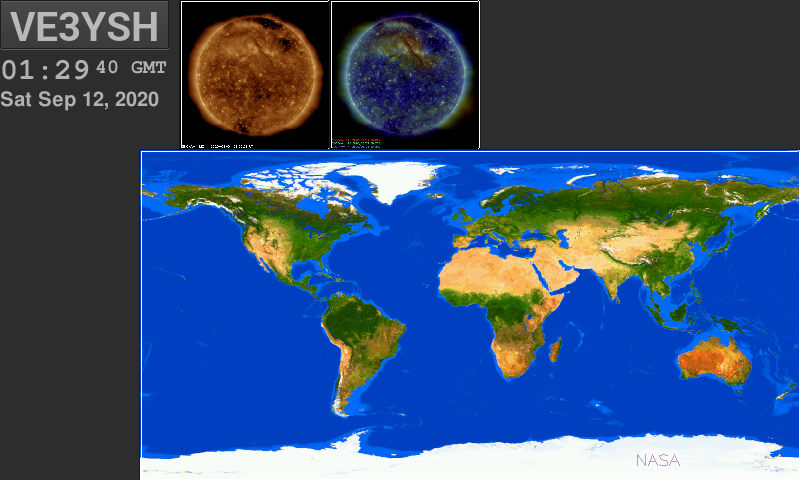
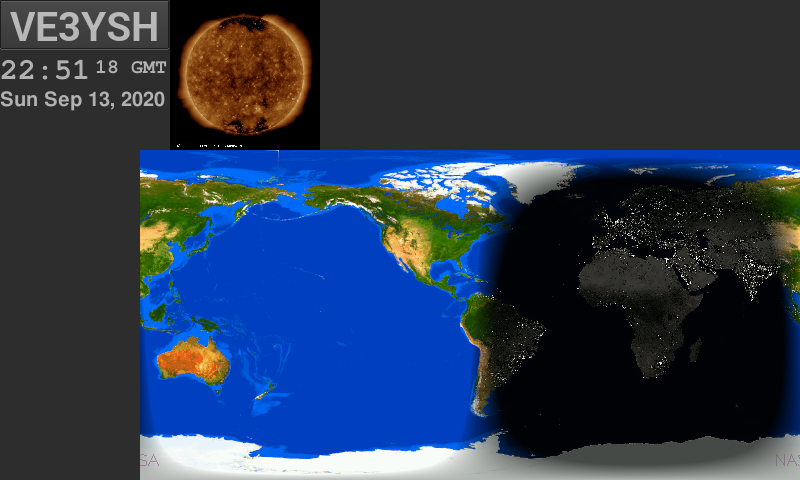
Implement small option for TimeBox.

diff --git a/sdlgui/timebox.cpp b/sdlgui/timebox.cpp
@@ -11,15 +11,22 @@
 
 static Uint32 TimeBoxCallbackStub(Uint32 interval, void *param);
 
-sdlgui::TimeBox::TimeBox(sdlgui::Widget *parent, bool localTime, const std::string &font, int fontSize)
+sdlgui::TimeBox::TimeBox(Widget *parent, bool small, bool localTime, const string &font, int fontSize)
         : Widget(parent),
           mTimer(*this, &TimeBox::timerCallback, 1000),
           mIsLocalTime(localTime),
+          mSmallBox(small),
           locale_time_put(use_facet<time_put<char>>(locale())) {
     if (fontSize < 0) {
-        mTimeBoxHoursMinFontSize = mTheme->mTimeBoxHoursMinFontSize;
-        mTimeBoxSecFontSize = mTheme->mTimeBoxSecFontSize;
-        mTimeBoxDateFontSize = mTheme->mTimeBoxDateFontSize;
+        if (mSmallBox) {
+            mTimeBoxHoursMinFontSize = mTheme->mTimeBoxSmallHoursMinFontSize;
+            mTimeBoxSecFontSize = mTheme->mTimeBoxSmallSecFontSize;
+            mTimeBoxDateFontSize = mTheme->mTimeBoxSmallDateFontSize;
+        } else {
+            mTimeBoxHoursMinFontSize = mTheme->mTimeBoxHoursMinFontSize;
+            mTimeBoxSecFontSize = mTheme->mTimeBoxSecFontSize;
+            mTimeBoxDateFontSize = mTheme->mTimeBoxDateFontSize;
+        }
     } else {
         mTimeBoxHoursMinFontSize = fontSize;
         mTimeBoxDateFontSize = fontSize;
@@ -27,8 +34,13 @@ sdlgui::TimeBox::TimeBox(sdlgui::Widget *parent, bool localTime, const std::stri
     }
 
     if (font.empty()) {
-        mTimeBoxDateFont = mTheme->mTimeBoxDateFont;
-        mTimeBoxTimeFont = mTheme->mTimeBoxTimeFont;
+        if (mSmallBox) {
+            mTimeBoxDateFont = mTheme->mTimeBoxSmallDateFont;
+            mTimeBoxTimeFont = mTheme->mTimeBoxSmallTimeFont;
+        } else {
+            mTimeBoxDateFont = mTheme->mTimeBoxDateFont;
+            mTimeBoxTimeFont = mTheme->mTimeBoxTimeFont;
+        }
     } else {
         mTimeBoxDateFont = font;
         mTimeBoxTimeFont = font;
@@ -66,15 +78,18 @@ void sdlgui::TimeBox::renderTime(const std::chrono::time_point<std::chrono::syst
     stringstream hm;
     hm.imbue(locale());
 
-    put_locale_time( hm, ' ', &tm, mTheme->mTimeBoxHoursMinFmt);
+    put_locale_time( hm, ' ', &tm,
+                     mSmallBox ? mTheme->mTimeBoxSmallHoursMinFmt : mTheme->mTimeBoxHoursMinFmt);
     mHoursMins->setCaption(hm.str());
 
     hm.str("");
-    put_locale_time( hm, ' ', &tm, mTheme->mTimeBoxSecFmt);
+    put_locale_time(hm, ' ', &tm,
+                    mSmallBox ? mTheme->mTimeBoxSmallSecFmt : mTheme->mTimeBoxSecFmt);
     mSeconds->setCaption(hm.str());
 
     hm.str("");
-    put_locale_time( hm, ' ', &tm, mTheme->mTimeBoxDateFmt);
+    put_locale_time( hm, ' ', &tm,
+                     mSmallBox ? mTheme->mTimeBoxSmallDateFmt : mTheme->mTimeBoxDateFmt);
     mDate->setCaption(hm.str());
 }
 

diff --git a/sdlgui/timebox.h b/sdlgui/timebox.h
@@ -83,6 +83,10 @@ namespace sdlgui {
         time_point <system_clock> mEpoch;
         duration<double> mElapsedSeconds{};
         bool mIsLocalTime{false};
+        bool mSmallBox{false};
+        bool mConfigured{false};
+        bool mFontSet{false};
+        bool mFontSizeSet{false};
         Widget *mTimeDisplay;
         Widget *mDateDisplay;
         Label *mHoursMins;
@@ -96,6 +100,8 @@ namespace sdlgui {
         std::string mTimeBoxTimeFont;
         std::string mTimeBoxDateFont;
 
+        void configure();
+
     public:
         /**
          * Constructor
@@ -103,8 +109,8 @@ namespace sdlgui {
          * @param font the font to use or an empty string for the default
          * @param fontSize the font size to use or -1 for the default
          */
-        explicit TimeBox(Widget *parent, bool localTime = false,
-                         const std::string &font = "", int fontSize = -1);
+        explicit TimeBox(Widget *parent, bool small = false, bool localTime = false, const string &font = "",
+                         int fontSize = -1);
 
         /**
          * Render time for a specific time.

diff --git a/sdlgui/theme.h b/sdlgui/theme.h
@@ -52,6 +52,9 @@ public:
     int mTimeBoxHoursMinFontSize;
     int mTimeBoxSecFontSize;
     int mTimeBoxDateFontSize;
+    int mTimeBoxSmallHoursMinFontSize;
+    int mTimeBoxSmallSecFontSize;
+    int mTimeBoxSmallDateFontSize;
     int mWindowCornerRadius;
     int mWindowHeaderHeight;
     int mWindowDropShadowSize;
@@ -108,10 +111,16 @@ public:
     std::string mFontPath;
     std::string mTimeBoxTimeFont;
     std::string mTimeBoxDateFont;
+    std::string mTimeBoxSmallTimeFont;
+    std::string mTimeBoxSmallDateFont;
 
     std::string mTimeBoxHoursMinFmt;
     std::string mTimeBoxSecFmt;
     std::string mTimeBoxDateFmt;
+
+    std::string mTimeBoxSmallHoursMinFmt;
+    std::string mTimeBoxSmallSecFmt;
+    std::string mTimeBoxSmallDateFmt;
 
     [[maybe_unused]] void getTexAndRect(SDL_Renderer *renderer, int x, int y, const char *text,
       const char* fontname, size_t ptsize, SDL_Texture **texture, SDL_Rect *rect, SDL_Color *textColor) const;

diff --git a/sdlgui/theme.cpp b/sdlgui/theme.cpp
@@ -34,6 +34,9 @@ NAMESPACE_BEGIN(sdlgui)
         mTimeBoxHoursMinFontSize = 30;
         mTimeBoxSecFontSize = 20;
         mTimeBoxDateFontSize = 20;
+        mTimeBoxSmallHoursMinFontSize = 30;
+        mTimeBoxSmallSecFontSize = 20;
+        mTimeBoxSmallDateFontSize = 20;
         mWindowCornerRadius = 2;
         mWindowHeaderHeight = 30;
         mWindowDropShadowSize = 10;
@@ -88,10 +91,16 @@ NAMESPACE_BEGIN(sdlgui)
         mFontPath = "/usr/share/fonts/truetype/freefont";
         mTimeBoxTimeFont = "FreeMonoBold";
         mTimeBoxDateFont = "FreeSansBold";
+        mTimeBoxSmallTimeFont = "FreeMonoBold";
+        mTimeBoxSmallDateFont = "FreeSansBold";
 
         mTimeBoxHoursMinFmt = "%R";
         mTimeBoxSecFmt = "%S %Z";
         mTimeBoxDateFmt= "%a %b %d, %Y";
+
+        mTimeBoxSmallHoursMinFmt = "%R";
+        mTimeBoxSmallSecFmt = "%Z";
+        mTimeBoxSmallDateFmt= "%a %b %d";
 
         TTF_Init();
     }

diff --git a/hamchrono.cpp b/hamchrono.cpp
@@ -38,6 +38,8 @@ public:
 
                 nwindow.wdg<TimeBox>().withPosition(Vector2i(0, 55));
 
+                nwindow.wdg<TimeBox>(true, true).withPosition(Vector2i(0, topPanelH));
+
                 ListImages sun_images = loadImageDirectory(SDL_GetRenderer(&graphicsContext.GetWindow()), "images", 0);
                 ListImages map_images = loadImageDirectory(SDL_GetRenderer(&graphicsContext.GetWindow()), "maps", 0);
 
